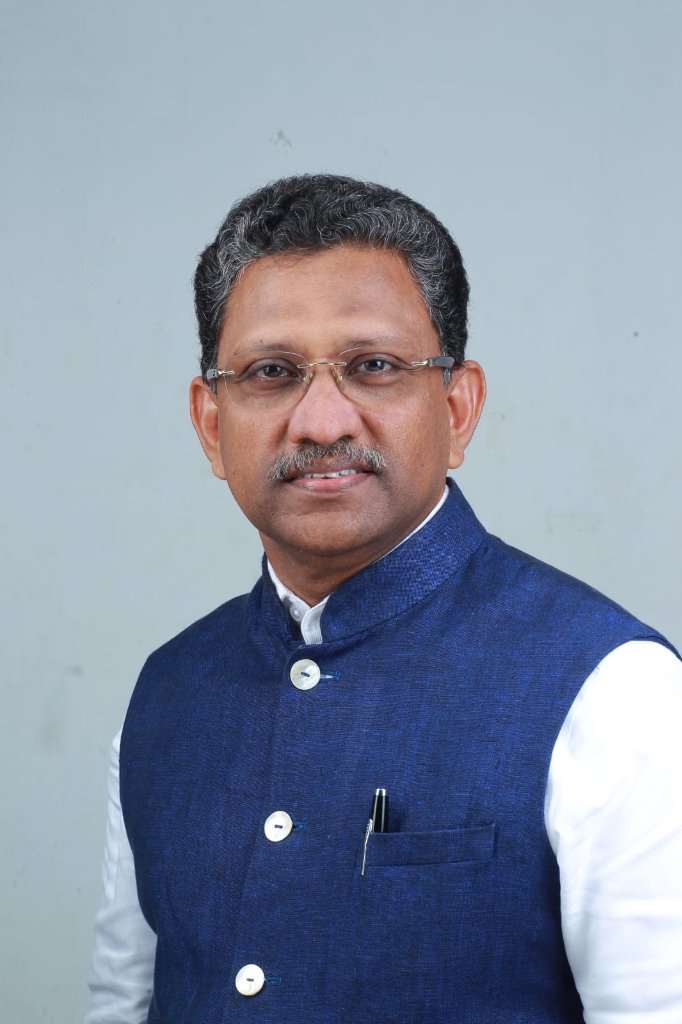
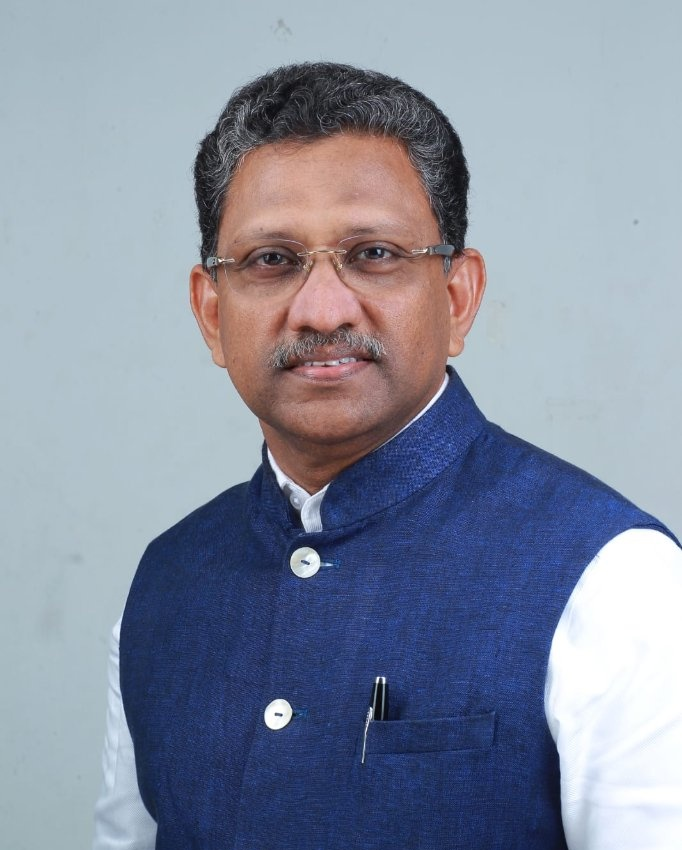
Center Prof. (Dr.) Zakkariya K. A. portraits on profile and committee pages

diff --git a/src/components/TeamMemberProfileView.module.css b/src/components/TeamMemberProfileView.module.css
@@ -109,11 +109,12 @@
 
 .portraitCol {
   display: flex;
-  justify-content: flex-start;
+  justify-content: center;
+  align-items: center;
 }
 
 .portraitFrame {
-  margin: 0;
+  margin: 0 auto;
   width: 15rem;
   height: 15rem;
   border-radius: 14px;
@@ -133,7 +134,7 @@
   width: 100%;
   height: 100%;
   object-fit: cover;
-  object-position: center top;
+  object-position: center center;
   display: block;
 }
 
@@ -509,24 +510,31 @@
   overflow: hidden;
   border: 1px solid #cbd5e1;
   background: #f8fafc;
+  display: flex;
+  flex-direction: column;
+  align-items: center;
 }
 
 .secondaryPortraitImg {
   width: 100%;
+  aspect-ratio: 4 / 5;
   height: auto;
-  max-height: 320px;
   object-fit: cover;
-  object-position: top center;
+  object-position: center center;
   display: block;
+  margin: 0 auto;
 }
 
 .secondaryPortraitCaption {
-  padding: 0.85rem 1rem;
-  font-size: 0.84rem;
+  width: 100%;
+  padding: 0.9rem 1.05rem;
+  font-size: 0.85rem;
   line-height: 1.55;
   color: #475569;
   margin: 0;
-  text-align: justify;
+  text-align: center;
+  border-top: 1px solid #e2e8f0;
+  background: #ffffff;
 }
 
 /* Domain Chips */

diff --git a/src/app/committee/page.tsx b/src/app/committee/page.tsx
@@ -147,7 +147,7 @@ export default function CommitteePage() {
                 <div style={{ width: '100%' }}>
                   <Link
                     href={`/team/${member.slug}`}
-                    style={{ textDecoration: 'none', display: 'inline-block' }}
+                    style={{ textDecoration: 'none', display: 'block', textAlign: 'center' }}
                   >
                     <div
                       className="committee-avatar-wrap"
@@ -172,7 +172,7 @@ export default function CommitteePage() {
                           width: '100%',
                           height: '100%',
                           objectFit: 'cover',
-                          objectPosition: 'top center',
+                          objectPosition: 'center center',
                         }}
                       />
                     </div>

diff --git a/src/data/siteData.ts b/src/data/siteData.ts
@@ -824,7 +824,7 @@ export const OFFICE_BEARERS: CommitteeMember[] = [
       'Meet Prof. (Dr.) Zakkariya K. A., Founder & Mentor of ISTD Trichur Chapter, National Vice President of ISTD, and Senior Professor at the School of Management Studies, CUSAT.',
     avatar: '/images/ISTDTeamTCR/zakkariya-ka.jpg',
     avatarWidth: 682,
-    avatarHeight: 1024,
+    avatarHeight: 850,
     avatarAlt:
       'Prof. (Dr.) Zakkariya K. A., Founder & Mentor of ISTD Trichur Chapter and National Vice President of ISTD',
     secondaryAvatar: '/images/ISTDTeamTCR/zakkariya-ka-2.jpg',
